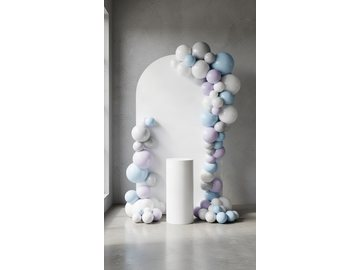
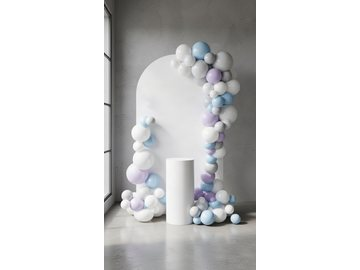
No giant floor balloons on Single Arch, garland above the boards, number off the plinth
1. Single Arch's garland: giantAnchors OFF. The three 36" statement balloons
   seated in the floor mound came back as enormous white spheres parked at the
   foot of the arch — the same thing that was crossed out on Double Arch on
   2026-09-08, reported again here. The volume low down now comes from the
   bottom-heavy climb alone.

   A correction to what I said on 2026-09-08: I reported that adding the
   front-loaded "no writing on balloons" line had cost Single Arch its
   one-sided garland. That was wrong. Single Arch deliberately mirrors the
   garland onto the left edge on the Full/Premium tiers (isFullerTier) — it is
   the extra coverage those tiers sell, and it predates that line.

2. The light-up number stands on the FLOOR, never on top of the plinth. The
   render was standing it on the column; the front-loaded number line now says
   so explicitly.

3. Triple Arch: every balloon now sits on or above the boards' top edges. One
   crown lane was still at +0.45 of a radius below the line, and the join
   clusters spread evenly in all directions, so both put balloons across the
   board faces — which is what the customer keeps circling. The join clusters
   are biased upward.

   The Triple Arch sizes were checked and are correct: measured from the layout,
   the side boards are 180cm and the centre 200cm at identical scale, symmetric
   about the centre line with a 17px overlap at each join. What made them look
[…]

diff --git a/lib/generateStructureSilhouette.ts b/lib/generateStructureSilhouette.ts
@@ -1868,7 +1868,8 @@ export function generateStructureSilhouette(
               const off = lane === 0 ? -rr * 0.20
                 : lane === 1 ? -rr * 1.05
                 : lane === 2 ? -rr * 1.95
-                : rr * 0.45;   // just onto the edge, never across the face
+                : -rr * 0.45;  // 2026-09-09: above the edge too — at +0.45 this
+                              // lane still sat on the board faces.
               putC(
                 x + (crnd() * 2 - 1) * rMid * 0.55,
                 ty + off + (crnd() * 2 - 1) * rLil * 0.5,
@@ -1894,9 +1895,12 @@ export function generateStructureSilhouette(
                 const a3 = crnd() * Math.PI * 2;
                 const dd = Math.pow(crnd(), 0.7) * rBig * 1.5;
                 const rr = i % 3 === 0 ? rBig * (0.9 + crnd() * 0.3) : rMid * (0.8 + crnd() * 0.5);
+                // Biased UPWARD: an even disc around the join spread balloons
+                // down over the board faces, which is what the customer keeps
+                // circling. Everything sits on or above the top line.
                 putC(
                   jx + Math.cos(a3) * dd,
-                  jy + Math.sin(a3) * dd * 0.75 - rr * 0.35,
+                  jy - Math.abs(Math.sin(a3)) * dd * 0.85 - rr * 0.30,
                   rr,
                 );
               }
@@ -2385,12 +2389,18 @@ export function generateStructureSilhouette(
           // column of 22 circles, which the edit model reproduced with visibly
           // thin, gappy stretches (2026-07-20 feedback: "balloons have very
           // thin parts, should look fuller").
-          drawThickOrganicMainGarland(archPanels[0], "right", 0, true, true);
+          // 2026-09-09: giantAnchors OFF here too. The three 36" statement
+          // balloons seated in the floor mound came back as enormous white
+          // spheres parked at the foot of the arch — the same thing the
+          // customer crossed out on Double Arch on 2026-09-08, reported again
+          // here as "single arch backdrop asiri kotu olmus balonlar". The
+          // volume low down now comes from the bottom-heavy climb alone.
+          drawThickOrganicMainGarland(archPanels[0], "right", 0, true, true, false);
           // Full / Premium mirror the mass onto the left edge too, so the
           // customer sees the extra coverage they paid for. Half stays
           // one-sided (that asymmetry is the look Half Garland sells).
           if (isFullerTier) {
-            drawThickOrganicMainGarland(archPanels[0], "left", 62, true, true);
+            drawThickOrganicMainGarland(archPanels[0], "left", 62, true, true, false);
           }
         } else {
           // Multi-panel fallback: right-side vertical garland from top-right corner to floor

diff --git a/app/api/generate-controlled-render/route.ts b/app/api/generate-controlled-render/route.ts
@@ -159,7 +159,7 @@ function isAuthOrBillingError(message: string | null): boolean {
 // process (sufficient for a single-instance/dev deployment — not a
 // distributed cache). Bump RENDER_CACHE_VERSION whenever a prompt/negative
 // change should invalidate previously cached (now-stale) renders.
-const RENDER_CACHE_VERSION = "plinth-ladder-bare-hoop-v79";
+const RENDER_CACHE_VERSION = "no-giants-garland-above-boards-v80";
 
 interface RenderCacheEntry {
   imageUrl: string;

diff --git a/lib/renderPrompts/buildLayoutRefEditPrompt.ts b/lib/renderPrompts/buildLayoutRefEditPrompt.ts
@@ -899,6 +899,7 @@ export function buildLayoutRefEditPrompt(
           : `. `) +
         `There is EXACTLY ONE marquee number in the entire image — never a second number, never the same ` +
         `digit repeated elsewhere in the frame. ` +
+        `It stands directly on the floor, never on top of the plinth. ` +
         `No loose helium balloons on strings anywhere in the scene. `
       : "";
 
